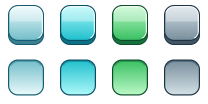
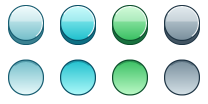
Aqua: кнопки-капсулы и плоские глянцевые лампочки
Claude-Session: https://claude.ai/code/session_01U7SxQaxHMvfuTayBcgx1EU

diff --git a/tools/gen_theme_aqua_sprites.py b/tools/gen_theme_aqua_sprites.py
@@ -68,7 +68,7 @@ def key(name, pressed):
     bx, by, bw, bh = 8, 5, 36, 36
     off = 2.5 if pressed else 0.0
     wall_h = 1.5 if pressed else 4.0
-    r = 10.0
+    r = 17.5
     if not pressed:                                   # стенка (передняя грань) под лицом
         d = rrect_sd(x, y, bx, by + wall_h, bw, bh, r)
         over(im, wall, cover(d))
@@ -101,22 +101,15 @@ def lamp(color, on):
     if on:                                            # свечение
         for k, a in ((19, 0.06), (16, 0.10), (13.5, 0.16)):
             over(im, color, cover(rr - k) * a)
-    over(im, (8, 50, 68), cover(rr - 12.2))           # обводка
-    ring = vgrad(y, cy - 11.4, cy + 11.4, (238, 252, 252), (120, 176, 188))
-    over(im, ring, cover(rr - 11.2))
-    over(im, (10, 66, 86), cover(rr - 8.4))           # лунка
-    over(im, (4, 34, 48), cover(rr - 7.6))
     c0 = np.asarray(color, np.float32)
+    over(im, (6, 40, 58), cover(rr - 9.6))            # тёмная обводка
     if on:
-        gem = vgrad(y, cy - 6.5, cy + 6.5, np.minimum(c0 * 1.25 + 40, 255), c0 * 0.82)
+        gem = vgrad(y, cy - 8.5, cy + 8.5, np.minimum(c0 * 1.3 + 50, 255), c0 * 0.75)
     else:
-        gem = vgrad(y, cy - 6.5, cy + 6.5, c0 * 0.42 + 8, c0 * 0.16 + 4)
-    over(im, gem, cover(rr - 6.4))
-    # блик камня: светлое пятно сверху-слева
-    hl = np.hypot(x - (cx - 2.2), y - (cy - 2.6))
-    over(im, (255, 255, 255), cover(hl - 2.1) * (0.95 if on else 0.40))
-    if on:
-        over(im, (255, 255, 255), cover(np.hypot(x - cx, y - cy) - 3.0) * 0.22)
+        gem = vgrad(y, cy - 8.5, cy + 8.5, c0 * 0.38 + 14, c0 * 0.14 + 6)
+    over(im, gem, cover(rr - 8.2))
+    hl = rrect_sd(x, y, cx - 5.2, cy - 6.6, 10.4, 5.2, 2.6)   # овальный блик сверху
+    over(im, (255, 255, 255), cover(hl) * (0.9 if on else 0.35))
     return down(im)
 
 
